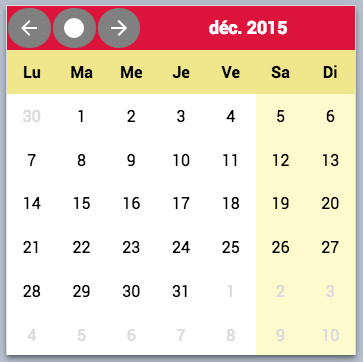
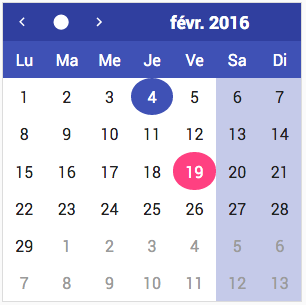
use default theming variables

diff --git a/zdkelt-calendar.html b/zdkelt-calendar.html
@@ -20,61 +20,58 @@ Example:
 
 ### Styling
 
-Custom property             | Description
-----------------------------|----------------------
-`--zdk-calendar-select`     | style of the selected date
-`--zdk-calendar-week`       | background color of the calendar
-`--zdk-calendar-weekend`    | background color for week-end days
-`--zdk-calendar-notinmonth` | style for days not in the current month
-`--zdk-calendar-title`      | style of date title bar
-`--zdk-calendar-weekdays`   | style of the week days name
-`--zdk-calendar-today`      | style of the today date
+Custom property             | Default                            | Description
+----------------------------|------------------------------------|----------------------
+`--zdk-calendar-select`     | bg : `--accent-color`              | style of the selected date
+                            | text: `--primary-background-color` |
+`--zdk-calendar-week`       | bg : `--primary-background-color`  | background color of the calendar
+                            | text: `--primary-text-color`       |
+`--zdk-calendar-weekend`    | bg :`--light-primary-color`        | background color for week-end days
+`--zdk-calendar-notinmonth` | text: `--disabled-text-color`      | style for days not in the current month
+`--zdk-calendar-title`      | bg : `--dark-primary-color`        | style of date title bar
+                            | text: `--primary-background-color` |
+`--zdk-calendar-weekdays`   | bg : `--default-primary-color`     | style of the week days name
+                            | text: `--primary-background-color` |
+`--zdk-calendar-today`      | bg : `--primary-color`             | style of the today date
+                            | text: `--primary-background-color` |
 
 @group zdk Elements
 @demo
 -->
 
 <style is="custom-style">
-    zdkelt-calendar {
-        --zdk-calendar-select: {
-            background: tomato;
-            color: white;
-        }
-        ;
-        --zdk-calendar-week: {
-            background: white;
-            color: black;
-        }
-        ;
-        --zdk-calendar-weekend: {
-            background: LemonChiffon;
-        }
-        ;
-        --zdk-calendar-notinmonth: {
-            color: Gainsboro;
-        }
-        --zdk-calendar-title: {
-            background: crimson;
-            color: white;
-            font-size: 110%;
-        }
-        ;
-        --zdk-calendar-weekdays: {
-            background: Khaki;
-            font-weight: bold;
-        }
-        ;
-        --zdk-calendar-today: {
-            background: rgba(30, 144, 255, 0.5);
-            border-radius: 100%;
-        }
-        ;
-        --zdk-calendar-action: {
-            background: DarkRed;
-            color: white;
-        }
-        ;
-    }
+zdkelt-calendar {
+	--zdk-calendar-select: {
+		background: var(--accent-color);
+		color: var(--primary-background-color);
+	};
+	--zdk-calendar-week: {
+		background: var(--primary-background-color);
+		color:var(--primary-text-color);
+	};
+	--zdk-calendar-weekend: {
+		background: var(--light-primary-color);
+	};
+	--zdk-calendar-notinmonth: {
+		color:var(--disabled-text-color);
+	}
+	--zdk-calendar-title: {
+		background: var(--dark-primary-color);
+		color: var(--primary-background-color);
+		font-size:110%;
+	};
+	--zdk-calendar-today: {
+		background: var(--primary-color);
+		color:var(--primary-background-color);
+	};
+	--zdk-calendar-weekdays: {
+		background: var(--default-primary-color);
+		color:var(--primary-background-color);
+	};
+	--zdk-calendar-action: {
+		background:none;
+	};
+}
 </style>
 
 <dom-module id="zdkelt-calendar">
